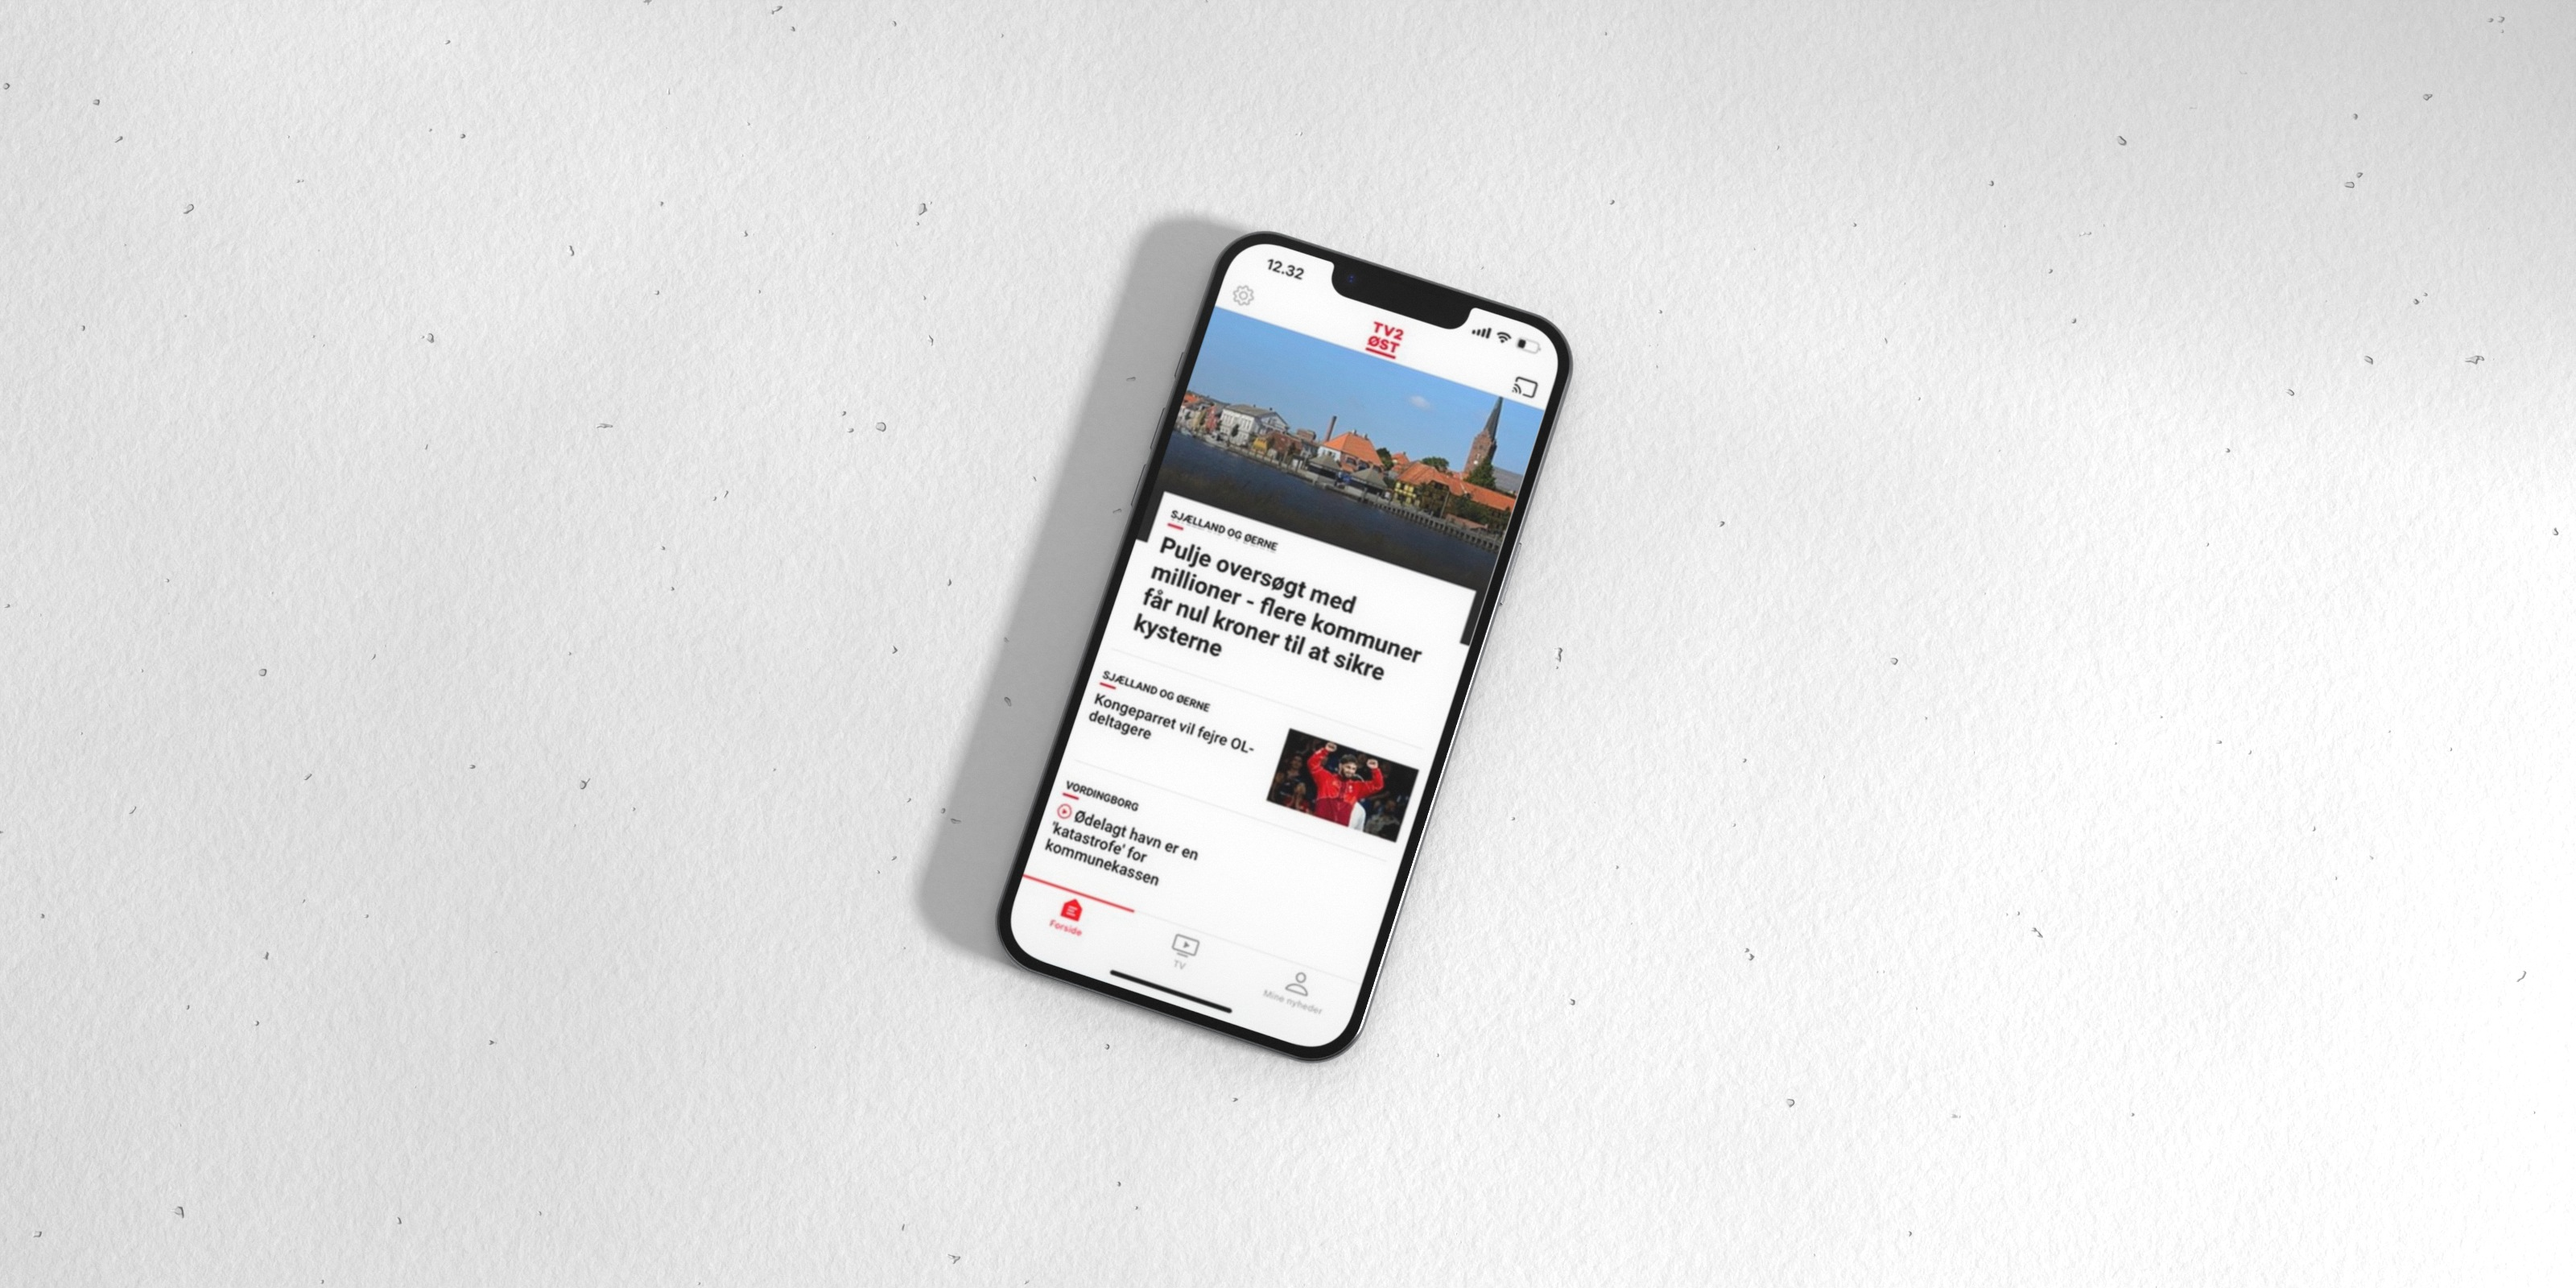
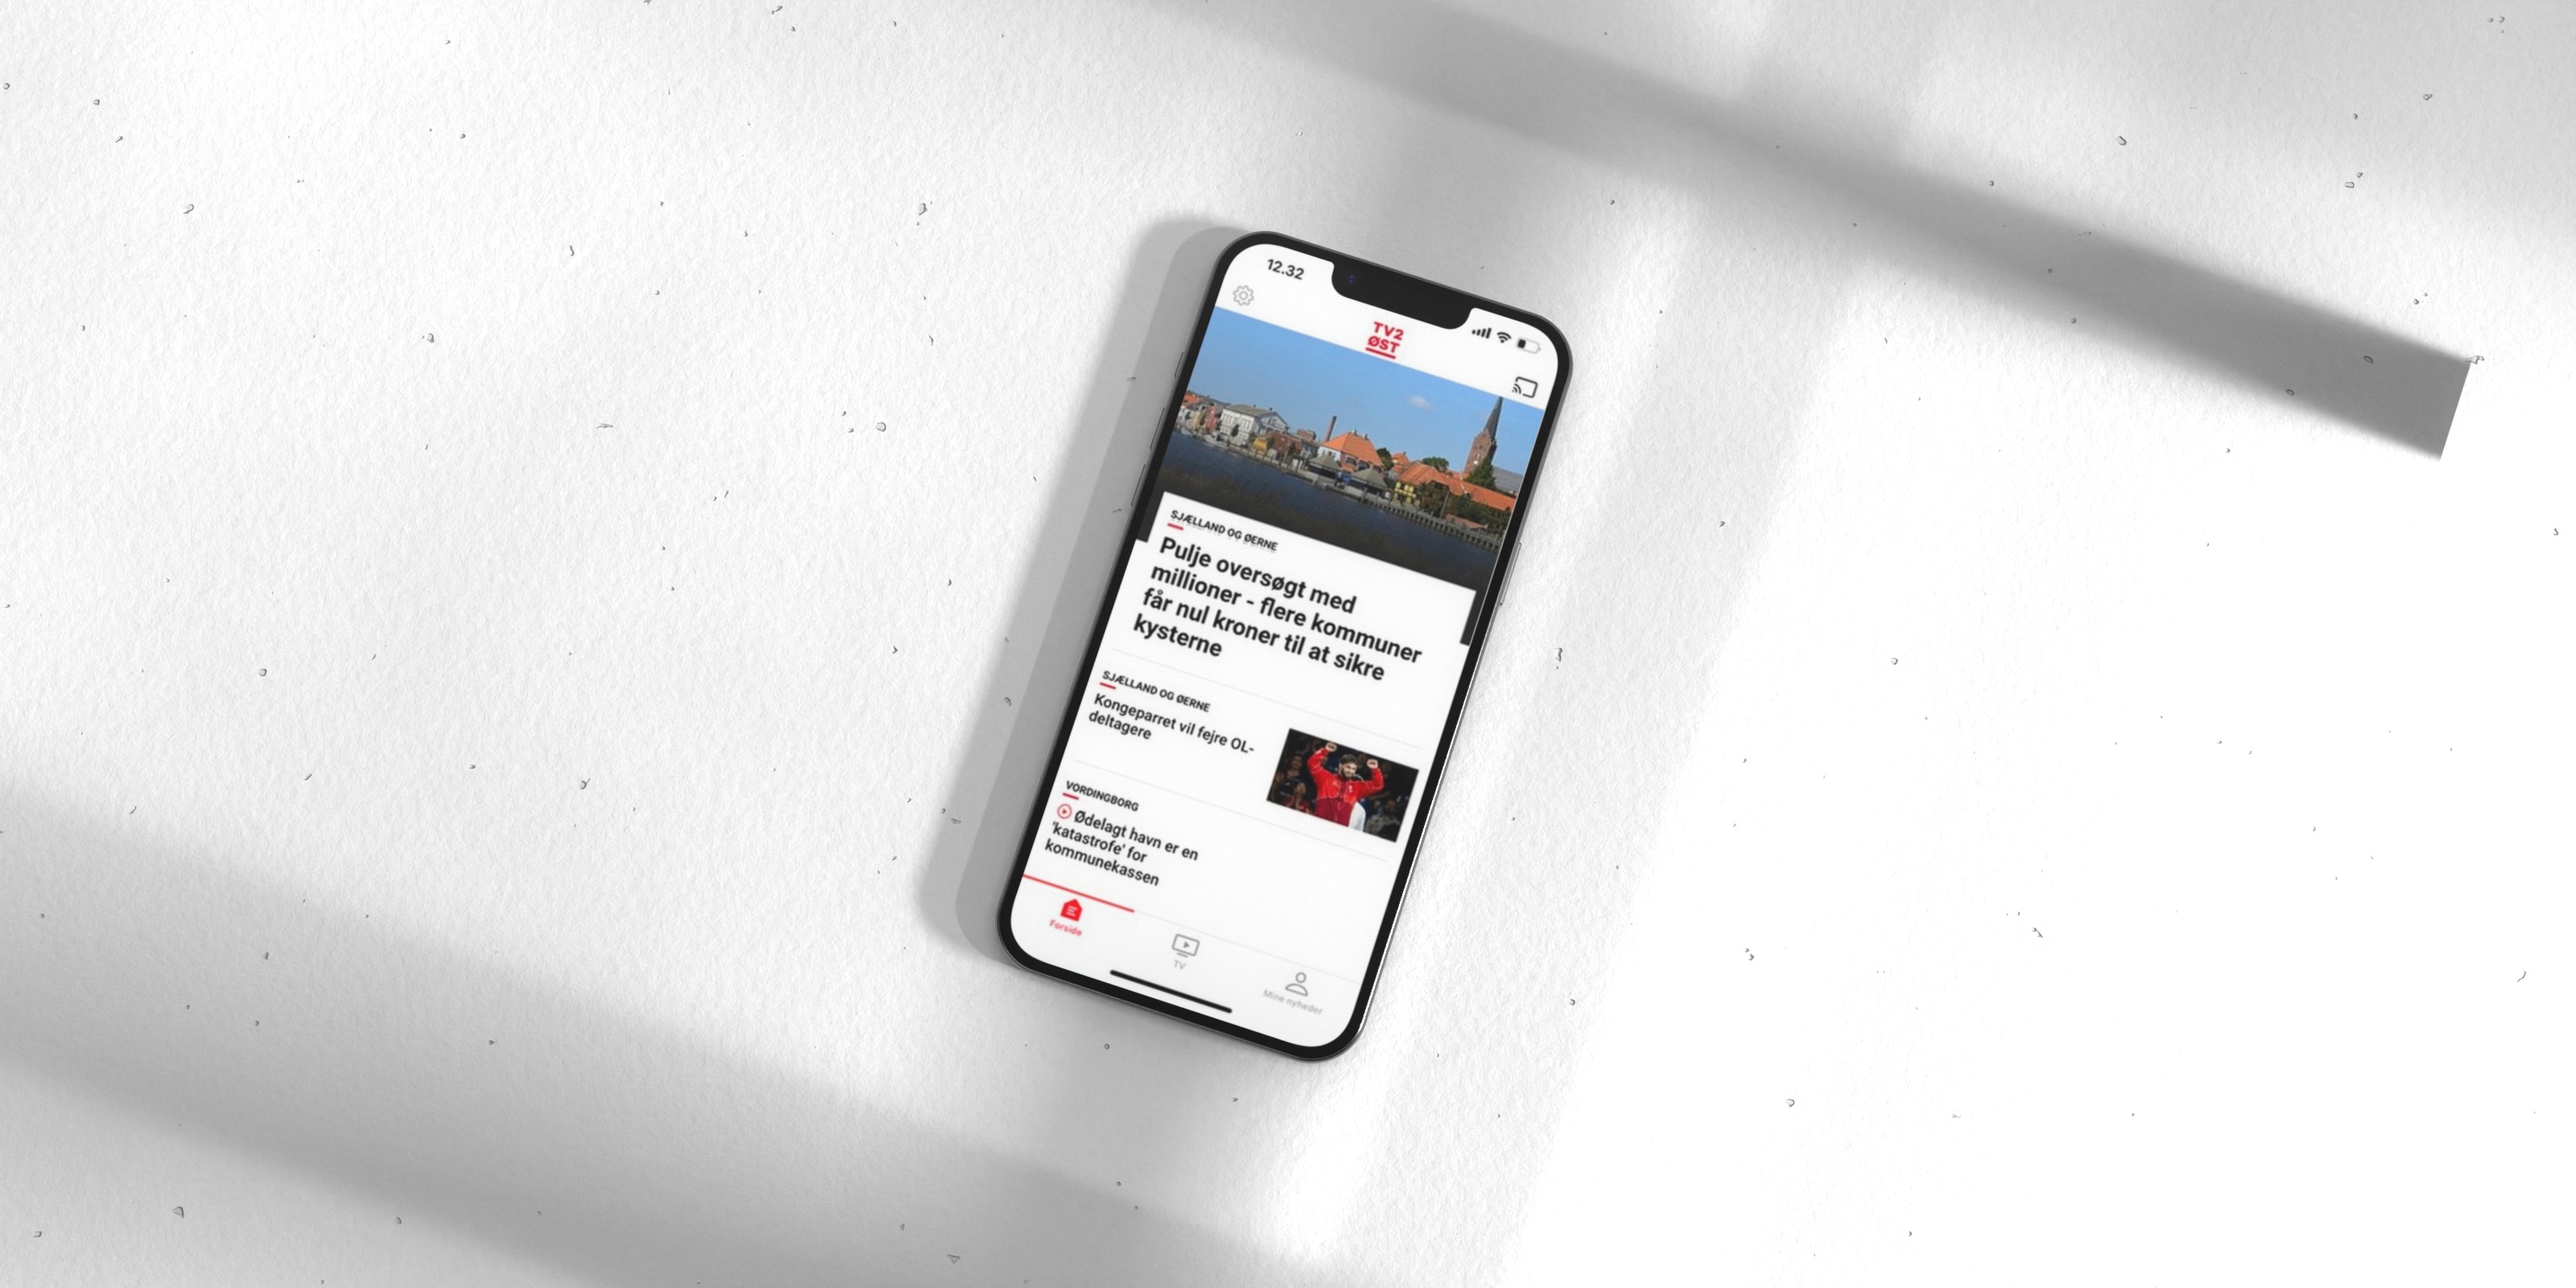
Cover shoot: TV2's wide shot keeps its window light soft and clear of the floor
The window's cut-out was large enough to dip through the floor in the
wide shot, and the line where it crossed made a hard bar; it now stands
clear, and the panel's shadow, which ended in view, is left out there.

Claude-Session: https://claude.ai/code/session_01TWSyw7ZJuA1HWZNDHNnh3M

Changed region(s): [[0.0, 0.6875, 0.5, 1.0], [0.4688, 0.0, 0.9688, 0.375], [0.0, 0.0, 0.125, 0.4688]]

diff --git a/_covers/studio.py b/_covers/studio.py
@@ -282,7 +282,7 @@ def render(path, res=(1800,1200), samples=160, exposure=0.0):
     s.cycles.max_bounces=6; s.cycles.caustics_reflective=False; s.cycles.caustics_refractive=False
     bpy.ops.render.render(write_still=True)
 
-def figure_shadow(name, png, target, az, el, width, dist, spread=2.0, strength=2.0, mirror=False, roll=0.0, only_sun=True, shade=1.0):
+def figure_shadow(name, png, target, az, el, width, dist, spread=2.0, strength=2.0, mirror=False, roll=0.0, only_sun=True, shade=1.0, wall=False):
     """A low sun, and in its path a cut-out figure the camera never sees: only its shadow lands, on the
     surface at `target`. az/el: where the sun is, in degrees (az 0 = from the camera's side, -Y; 90 = from
     +X). The cut-out stands `dist` metres from the target towards the sun, square to the light, so its
@@ -299,10 +299,15 @@ def figure_shadow(name, png, target, az, el, width, dist, spread=2.0, strength=2
     for n in list(N): N.remove(n)
     out=N.new('ShaderNodeOutputMaterial'); mix=N.new('ShaderNodeMixShader'); tr=N.new('ShaderNodeBsdfTransparent'); df=N.new('ShaderNodeBsdfDiffuse')
     df.inputs['Color'].default_value=(0,0,0,1)
-    t=N.new('ShaderNodeTexImage'); t.image=img; t.extension='CLIP'
+    t=N.new('ShaderNodeTexImage'); t.image=img; t.extension='EXTEND' if wall else 'CLIP'   # wall: the window's frame runs on into a wall, so no light gets round its edge
     mul=N.new('ShaderNodeMath'); mul.operation='MULTIPLY'; mul.inputs[1].default_value=shade; L.new(t.outputs['Color'], mul.inputs[0])   # shade<1: the cut-out lets some light through, so its shadow is lighter
     L.new(mul.outputs[0], mix.inputs['Fac']); L.new(tr.outputs[0], mix.inputs[1]); L.new(df.outputs[0], mix.inputs[2]); L.new(mix.outputs[0], out.inputs['Surface'])
-    p=plane_xz(name, width, h, m)
+    if wall:   # a much larger plane, the picture in its middle and its edge carried out to all sides
+        tc=N.new('ShaderNodeTexCoord'); mp=N.new('ShaderNodeMapping'); mp.inputs['Location'].default_value=(-2.0,-2.0,0); mp.inputs['Scale'].default_value=(5,5,1)
+        L.new(tc.outputs['UV'], mp.inputs['Vector']); L.new(mp.outputs['Vector'], t.inputs['Vector'])
+        p=plane_xz(name, width*5, h*5, m)
+    else:
+        p=plane_xz(name, width, h, m)
     if mirror: p.scale.x=-1
     p.location=Vector(target)+to_sun*dist
     p.rotation_euler=(Quaternion(to_sun, math.radians(roll)) @ to_sun.to_track_quat('-Y','Z')).to_euler()

diff --git a/_covers/scenes.py b/_covers/scenes.py
@@ -52,11 +52,13 @@ def tv2():
     far=1.7 if os.environ.get('HEADER') else 1.0
     gf,gw=base_set(side=1, key=(1.5*far,-0.5*far,0.75*far), key_size=0.35*far, key_power=34*far*far)
     box('floor', (3.0,3.0,0.03), (0,0,0.015), gf['fill'], bevel=0.0015)
-    box('panel', (0.035,1.6,0.9), (0.36,0.62,0.48), gw['hover'], bevel=0.0015, rot=(0,0,math.radians(28)))
+    pnl=box('panel', (0.035,1.6,0.9), (0.36,0.62,0.48), gw['hover'], bevel=0.0015, rot=(0,0,math.radians(28)))
     rig,H,Tk,scr=phone(T+'tv2.png'); rig.rotation_euler=Euler((math.radians(-90),0,math.radians(-18)),'XYZ'); rig.location=(0.0,0.0,0.03+Tk/2)
     camera((0.0,-0.08,0.60),(0.0,0.0,0.03), lens=85, fstop=8); sheen(scr, slide=(-0.7,0.3,0))
     if PEOPLE:   # morning: the window's light across the floor, the phone in one pane of it
-        figure_shadow('window', T+'shadows/window.png', (0.10, 0.09, 0.031), az=70, el=40, width=0.55, dist=0.10, spread=1.5, strength=float(os.environ.get('SUN','0.6')), only_sun=False)   # as Carl liked it: the window shades the room's lamps too
+        hd=bool(os.environ.get('HEADER'))   # the wide shot shows far more floor: a larger window, and the softer, lighter shade of the small-screen cut
+        figure_shadow('window', T+'shadows/window.png', (0.10, 0.09, 0.031), az=70, el=40, width=1.0 if hd else 0.55, dist=0.85 if hd else 0.10, spread=0.45 if hd else 1.5, strength=float(os.environ.get('SUN','0.6')), only_sun=False, shade=0.7 if hd else 1.0)
+        if hd: pnl.visible_shadow=False   # in the wide shot the panel's shadow ends abruptly in view; the window gives the light instead
 RES['tv2']=(1440,1800)
 
 def ok():
